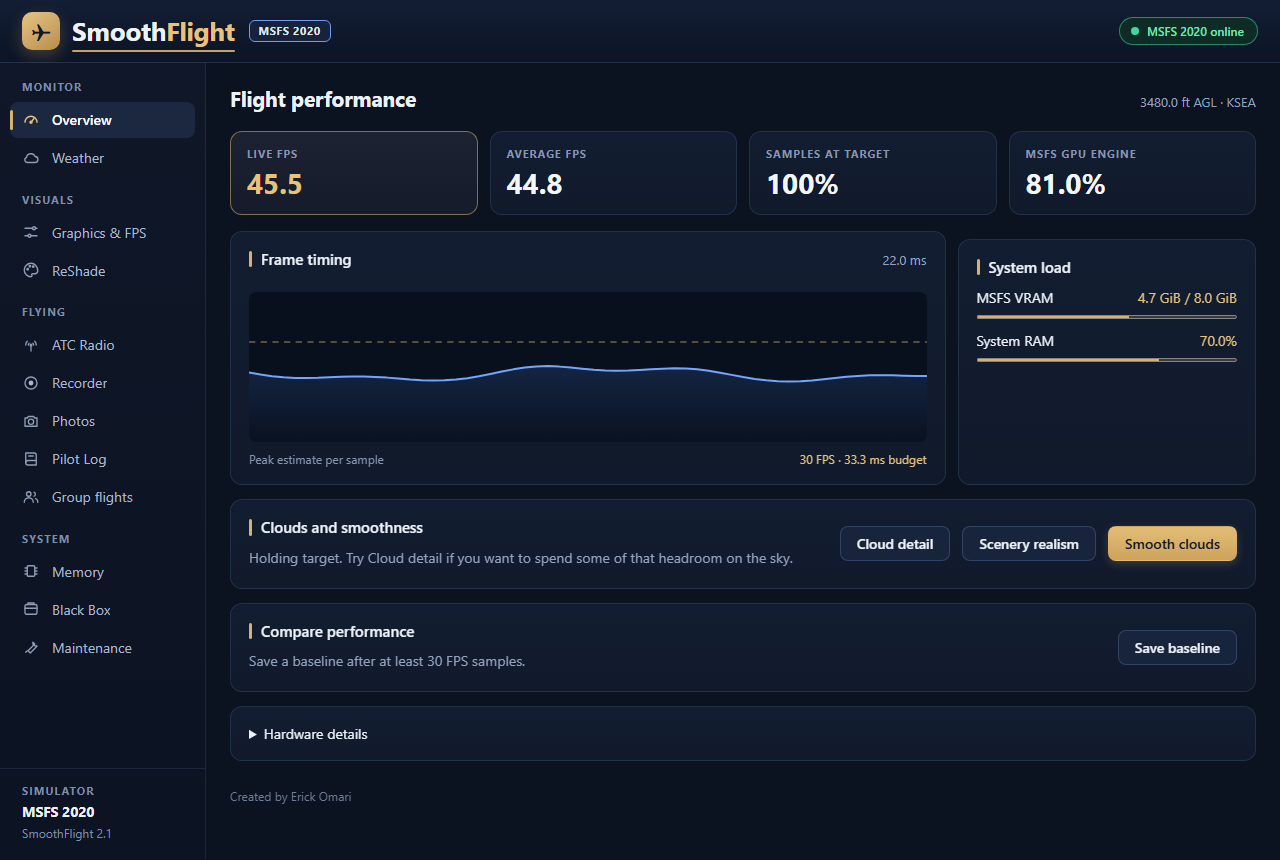
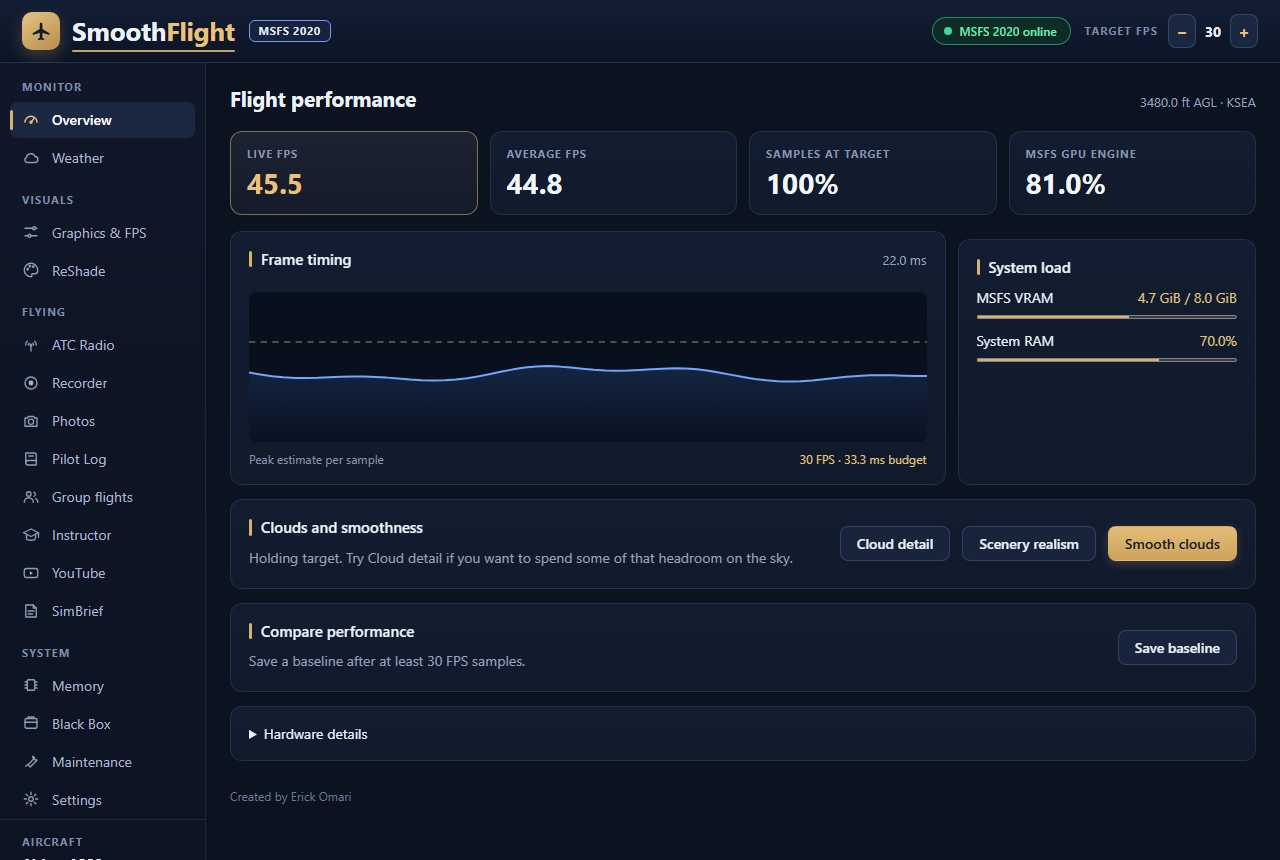
README with screenshots of every feature, install guide, privacy and troubleshooting

diff --git a/README.md b/README.md
@@ -1,10 +1,144 @@
-# SmoothFlight
+<p align="center">
+  <img src="docs/assets/msfs-dashboard.png" alt="SmoothFlight dashboard in Microsoft Flight Simulator" width="900">
+</p>
 
-In-sim dashboards, package launchers and a memory guard for **X-Plane 12** and **Microsoft Flight Simulator 2020 / 2024**.
+<h1 align="center">SmoothFlight</h1>
 
-- **Website:** https://pitchiluxe.github.io/smoothflight/
-- **Download:** https://github.com/pitchiluxe/smoothflight/releases/latest
+<p align="center">
+  <b>Smoother flights, better looks and a co-pilot toolkit for X-Plane 12 and Microsoft Flight Simulator 2020 / 2024.</b><br>
+  In-sim dashboards, AI instructor and charts, SimBrief, ReShade looks, package launchers and a memory guard.
+</p>
 
-This repository hosts the website and the downloads. SmoothFlight is free to use; its source code is not public.
+<p align="center">
+  <a href="https://github.com/pitchiluxe/smoothflight/releases/latest"><b>⬇ Download the latest version</b></a> ·
+  <a href="https://pitchiluxe.github.io/smoothflight/">Website</a> ·
+  <a href="#install">Install</a> ·
+  <a href="#features">Features</a> ·
+  <a href="#troubleshooting">Troubleshooting</a>
+</p>
 
-Created by Erick Omari. All rights reserved.
+<p align="center">
+  <img alt="Latest release" src="https://img.shields.io/github/v/release/pitchiluxe/smoothflight?label=latest&color=f2b84b">
+  <img alt="Downloads" src="https://img.shields.io/github/downloads/pitchiluxe/smoothflight/total?color=00b4f0">
+  <img alt="Windows 10/11 64-bit" src="https://img.shields.io/badge/Windows-10%20%7C%2011%20x64-0b1220">
+  <img alt="Simulators" src="https://img.shields.io/badge/MSFS%202020%20%7C%20MSFS%202024%20%7C%20X--Plane%2012-supported-12a383">
+</p>
+
+---
+
+## What is SmoothFlight?
+
+SmoothFlight puts a full flight-sim toolkit **inside the simulator**: open it from the MSFS toolbar or from X-Plane's Plugins menu and you get live performance, graphics tuning, weather, an AI flight instructor with airport charts, your SimBrief flight plan, a pilot log with landing analysis and more, without alt-tabbing out of your flight.
+
+It also comes with a **Package Launcher** that turns Community packages and scenery on or off by region, frees memory before the sim starts, and launches the simulator (directly or through Map Enhancement).
+
+Everything runs **on your PC**. There is no account to create, and the AI features use a local model (Ollama), so your flights are never uploaded.
+
+## Features
+
+### Monitor your flight
+| | |
+|---|---|
+| <img src="docs/assets/msfs-dashboard.png" alt="Overview" width="430"> | **Overview**: live FPS, frame-time graph, CPU, GPU and memory, with a target-FPS meter and a saved baseline to compare against.<br><br>**Weather**: wind, visibility, temperature, pressure, precipitation and cloud layers around your aircraft.<br><br>**Black Box**: records low-FPS moments, frame-time spikes, high VRAM and connection problems with the position and weather at the time, exportable as a report. |
+
+### Look better, fly smoother
+| | |
+|---|---|
+| <img src="docs/assets/msfs-graphics.png" alt="Graphics and FPS" width="430"> | **Graphics & FPS**: ready-made profiles (scenery realism, cloud detail, smooth clouds) plus individual controls for render scale, LOD, trees, grass, buildings, clouds, shadows and more. Every change is backed up first.<br><br>**Memory guard**: frees RAM from idle background apps when memory runs low (never during a flight, never sim add-ons), and closes apps you pick. |
+| <img src="docs/assets/msfs-reshade.png" alt="ReShade and AI presets" width="430"> | **ReShade looks**: Natural Daylight, Soft Overcast and Night Flight presets.<br><br>**AI presets**: one click and the AI designs three named looks (for example "Amber Approach" or "Midnight Glide") and saves them next to your other ReShade presets. **Activate** switches the look instantly while you fly. |
+
+### Your co-pilot
+| | |
+|---|---|
+| <img src="docs/assets/msfs-simbrief.png" alt="SimBrief flight plan" width="430"> | **SimBrief**: enter your SimBrief pilot ID once in Settings and your latest flight plan appears in the sim: route, times, fuel, weights, METAR/TAF for departure, arrival and alternates, the navlog, route maps and the full OFP. It syncs automatically. |
+| <img src="docs/assets/msfs-instructor.png" alt="AI instructor lessons" width="430"> | **AI Instructor**: lessons written for the aircraft you are flying, and a chat with an instructor who knows your altitude, airport and wind. Answers are nicely formatted with headings, lists and tables. |
+| <img src="docs/assets/msfs-chart.png" alt="Airport chart" width="430"> | **Airport charts**: runways, ILS, frequencies, SIDs, STARs and approaches drawn from the simulator's own navigation data, the wind-favoured runway highlighted, and an AI briefing. Charts and the instructor can each open in their own movable toolbar panel. |
+
+### Your flights, remembered
+| | |
+|---|---|
+| <img src="docs/assets/msfs-landing.png" alt="Landing rate pop-up" width="430"> | **Landing rate**: an animated pop-up the moment you touch down, with your rate of descent, G-force and a grade from *Butter* to *Hard*. |
+| <img src="docs/assets/msfs-flight.png" alt="Pilot log flight details" width="430"> | **Pilot log**: every flight logged automatically (aircraft, airports, times, highest altitude, landing). Open a flight to see the approach profile, touchdown details and AI remarks on what went well and what to improve. |
+
+### And more
+- **YouTube**: the latest videos from flight-sim channels (you choose the channels), played in a small window you can move anywhere while you cruise.
+- **ATC Radio**: follows the nearest airport; one click to listen on LiveATC.
+- **Recorder and Photos**: record a flight and replay it on a map; take and caption screenshots.
+- **Group flights**: see friends on a live map in a private room with an invite code.
+- **Settings and updates**: landing pop-up, AI model, ReShade folder, SimBrief ID, YouTube channels, and an in-sim **Check for updates** button.
+
+<p align="center"><img src="docs/assets/msfs-settings.png" alt="Settings page" width="700"></p>
+
+## Install
+
+1. **Download** the zip for your simulator from the [latest release](https://github.com/pitchiluxe/smoothflight/releases/latest):
+   - `SmoothFlight-MSFS-x.y.z.zip` for **MSFS 2020 and/or 2024** (Microsoft Store, Game Pass or Steam)
+   - `SmoothFlight-XPlane12-x.y.z.zip` for **X-Plane 12**
+2. **Close the simulator**, unzip, and double-click the installer:
+   - `Install-SmoothFlight-MSFS.exe`: finds MSFS 2020 and/or 2024 and installs the toolbar panel into each one.
+   - `Install-SmoothFlight-XPlane.exe`: asks for your X-Plane 12 folder if it can't find it.
+   - If Windows SmartScreen appears, choose **More info → Run anyway**.
+3. **Start flying**:
+   - **MSFS**: start *SmoothFlight Companion* and the *MSFS Package Launcher* from the desktop, then open **SmoothFlight** from the in-sim toolbar.
+   - **X-Plane**: start X-Plane from the *X-Plane 12 Package Launcher* shortcut, then open **Plugins → SmoothFlight**.
+
+### Requirements
+- Windows 10 or 11 (64-bit)
+- Microsoft Flight Simulator 2020 / 2024, and/or X-Plane 12
+- Optional:
+  - [Ollama](https://ollama.com) with a small model such as `llama3.2` or `qwen2.5` for the AI Instructor, AI briefings, pilot-log remarks and AI ReShade presets
+  - [ReShade](https://reshade.me) for the ReShade looks
+  - A free [SimBrief](https://www.simbrief.com) account for the SimBrief page
+  - Microsoft Edge (included with Windows) for the YouTube window
+
+## Updates
+
+SmoothFlight checks for new versions by itself. When one is out, the launcher (and the **Settings** page in the sim) offers **Update**: it downloads the new version, verifies its checksum and installs it. Your settings, pilot log and pairing are kept.
+
+## Using the AI features
+
+The AI runs locally through **Ollama**: install it, then run `ollama pull qwen2.5:3b` (or `llama3.2`) once. SmoothFlight finds it automatically. Pick a different model under **Settings → AI**. Nothing is sent to the internet.
+
+## Privacy
+
+- No account, no telemetry, no ads.
+- Flight data, the pilot log and settings stay in `%LOCALAPPDATA%\SmoothFlight` on your PC.
+- The only internet requests are: checking this page for updates, your SimBrief plan (when you set a pilot ID), YouTube feeds and thumbnails (when you open the YouTube page), and group-flight positions (only after you join a group).
+
+## Troubleshooting
+
+<details>
+<summary><b>The SmoothFlight panel says "offline" or keeps reconnecting</b></summary>
+
+Make sure *SmoothFlight Companion* is running (its icon is in the notification area). Start it before the simulator, or restart it from the desktop shortcut.
+</details>
+
+<details>
+<summary><b>MSFS Map Enhancement shows "MITM test failed"</b></summary>
+
+Some Windows installs use the BBR2 TCP setting, which breaks local connections that Map Enhancement relies on. The MSFS Package Launcher detects this and offers to fix it with one administrator prompt (it switches Windows back to the standard CUBIC setting).
+</details>
+
+<details>
+<summary><b>AI features say Ollama is not running</b></summary>
+
+Install Ollama from <a href="https://ollama.com">ollama.com</a>, run <code>ollama pull qwen2.5:3b</code>, and check <b>Settings → AI</b>. The address should be <code>http://127.0.0.1:11434/</code>.
+</details>
+
+<details>
+<summary><b>An AI ReShade preset doesn't change the look right away</b></summary>
+
+After installing or updating SmoothFlight, restart the simulator once so ReShade loads SmoothFlight's preset shortcuts. After that, <b>Activate</b> in the in-sim panel switches the look instantly.
+</details>
+
+<details>
+<summary><b>The YouTube window doesn't show over the simulator</b></summary>
+
+Run MSFS in windowed or borderless full-screen mode, or use <b>Play on this PC</b> to watch in your browser (handy on a second monitor).
+</details>
+
+## About
+
+SmoothFlight is free to use. Its source code is not public.
+
+Created by **Erick Omari**. All rights reserved.
